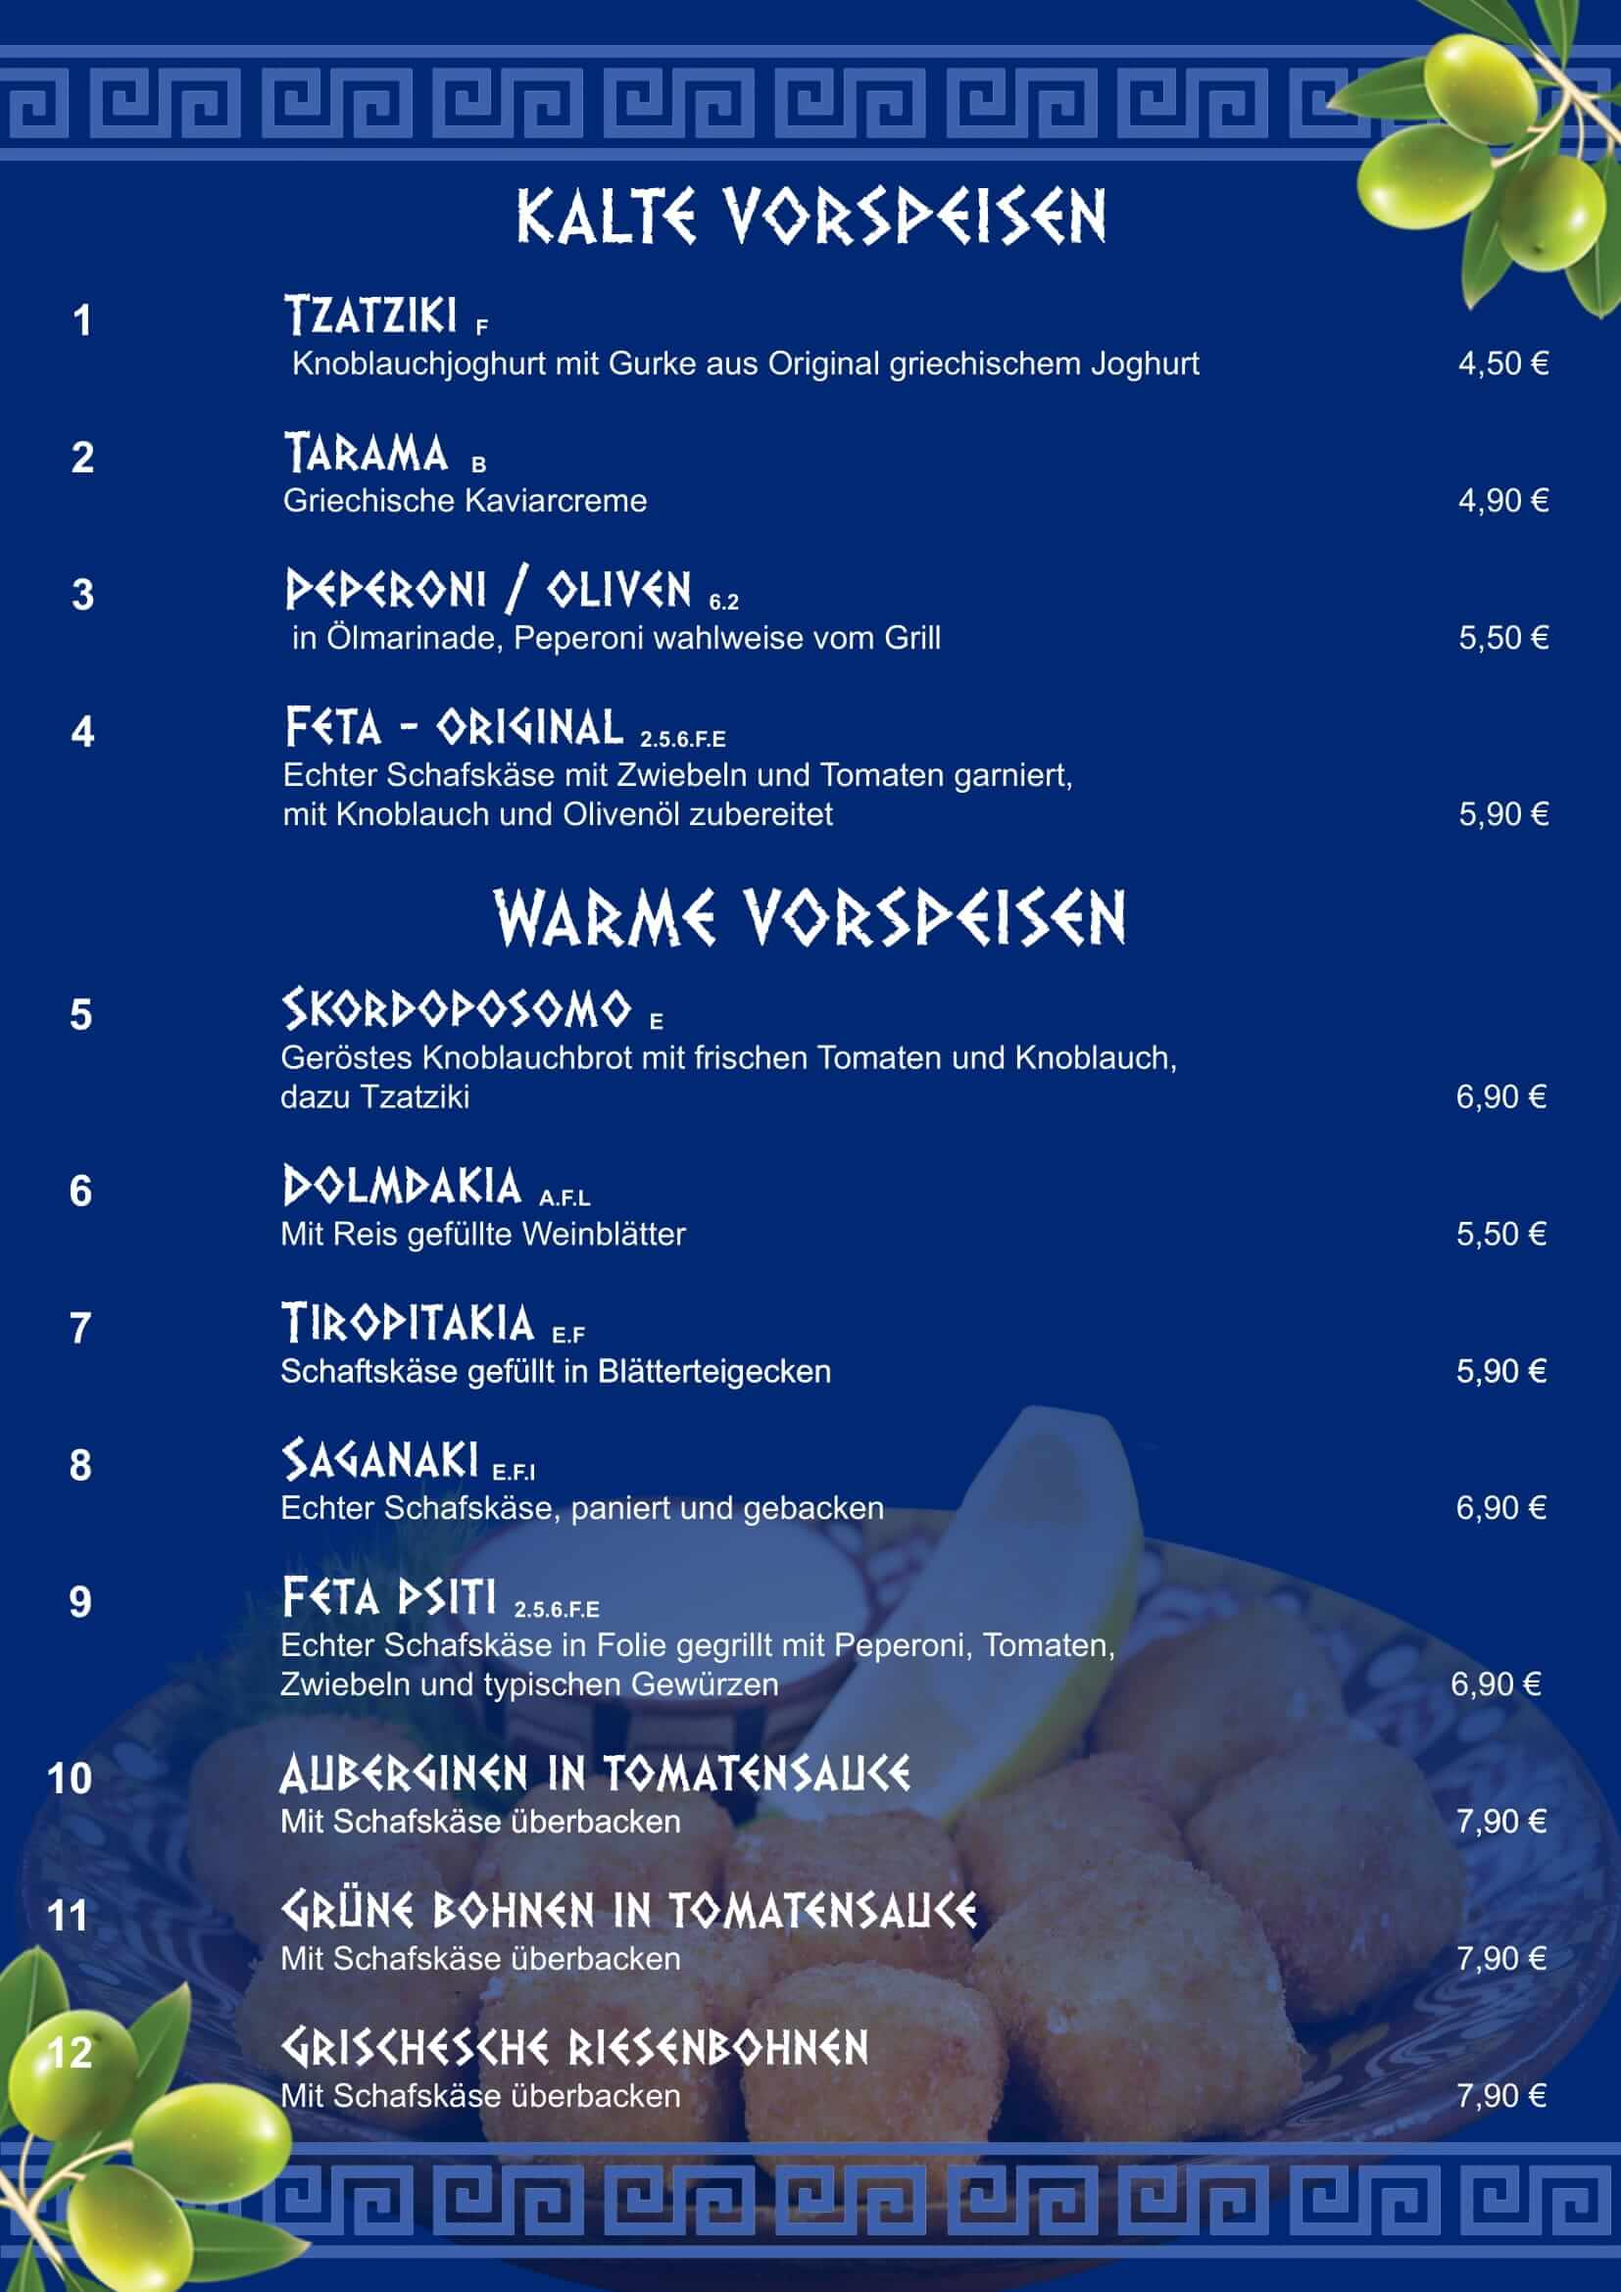
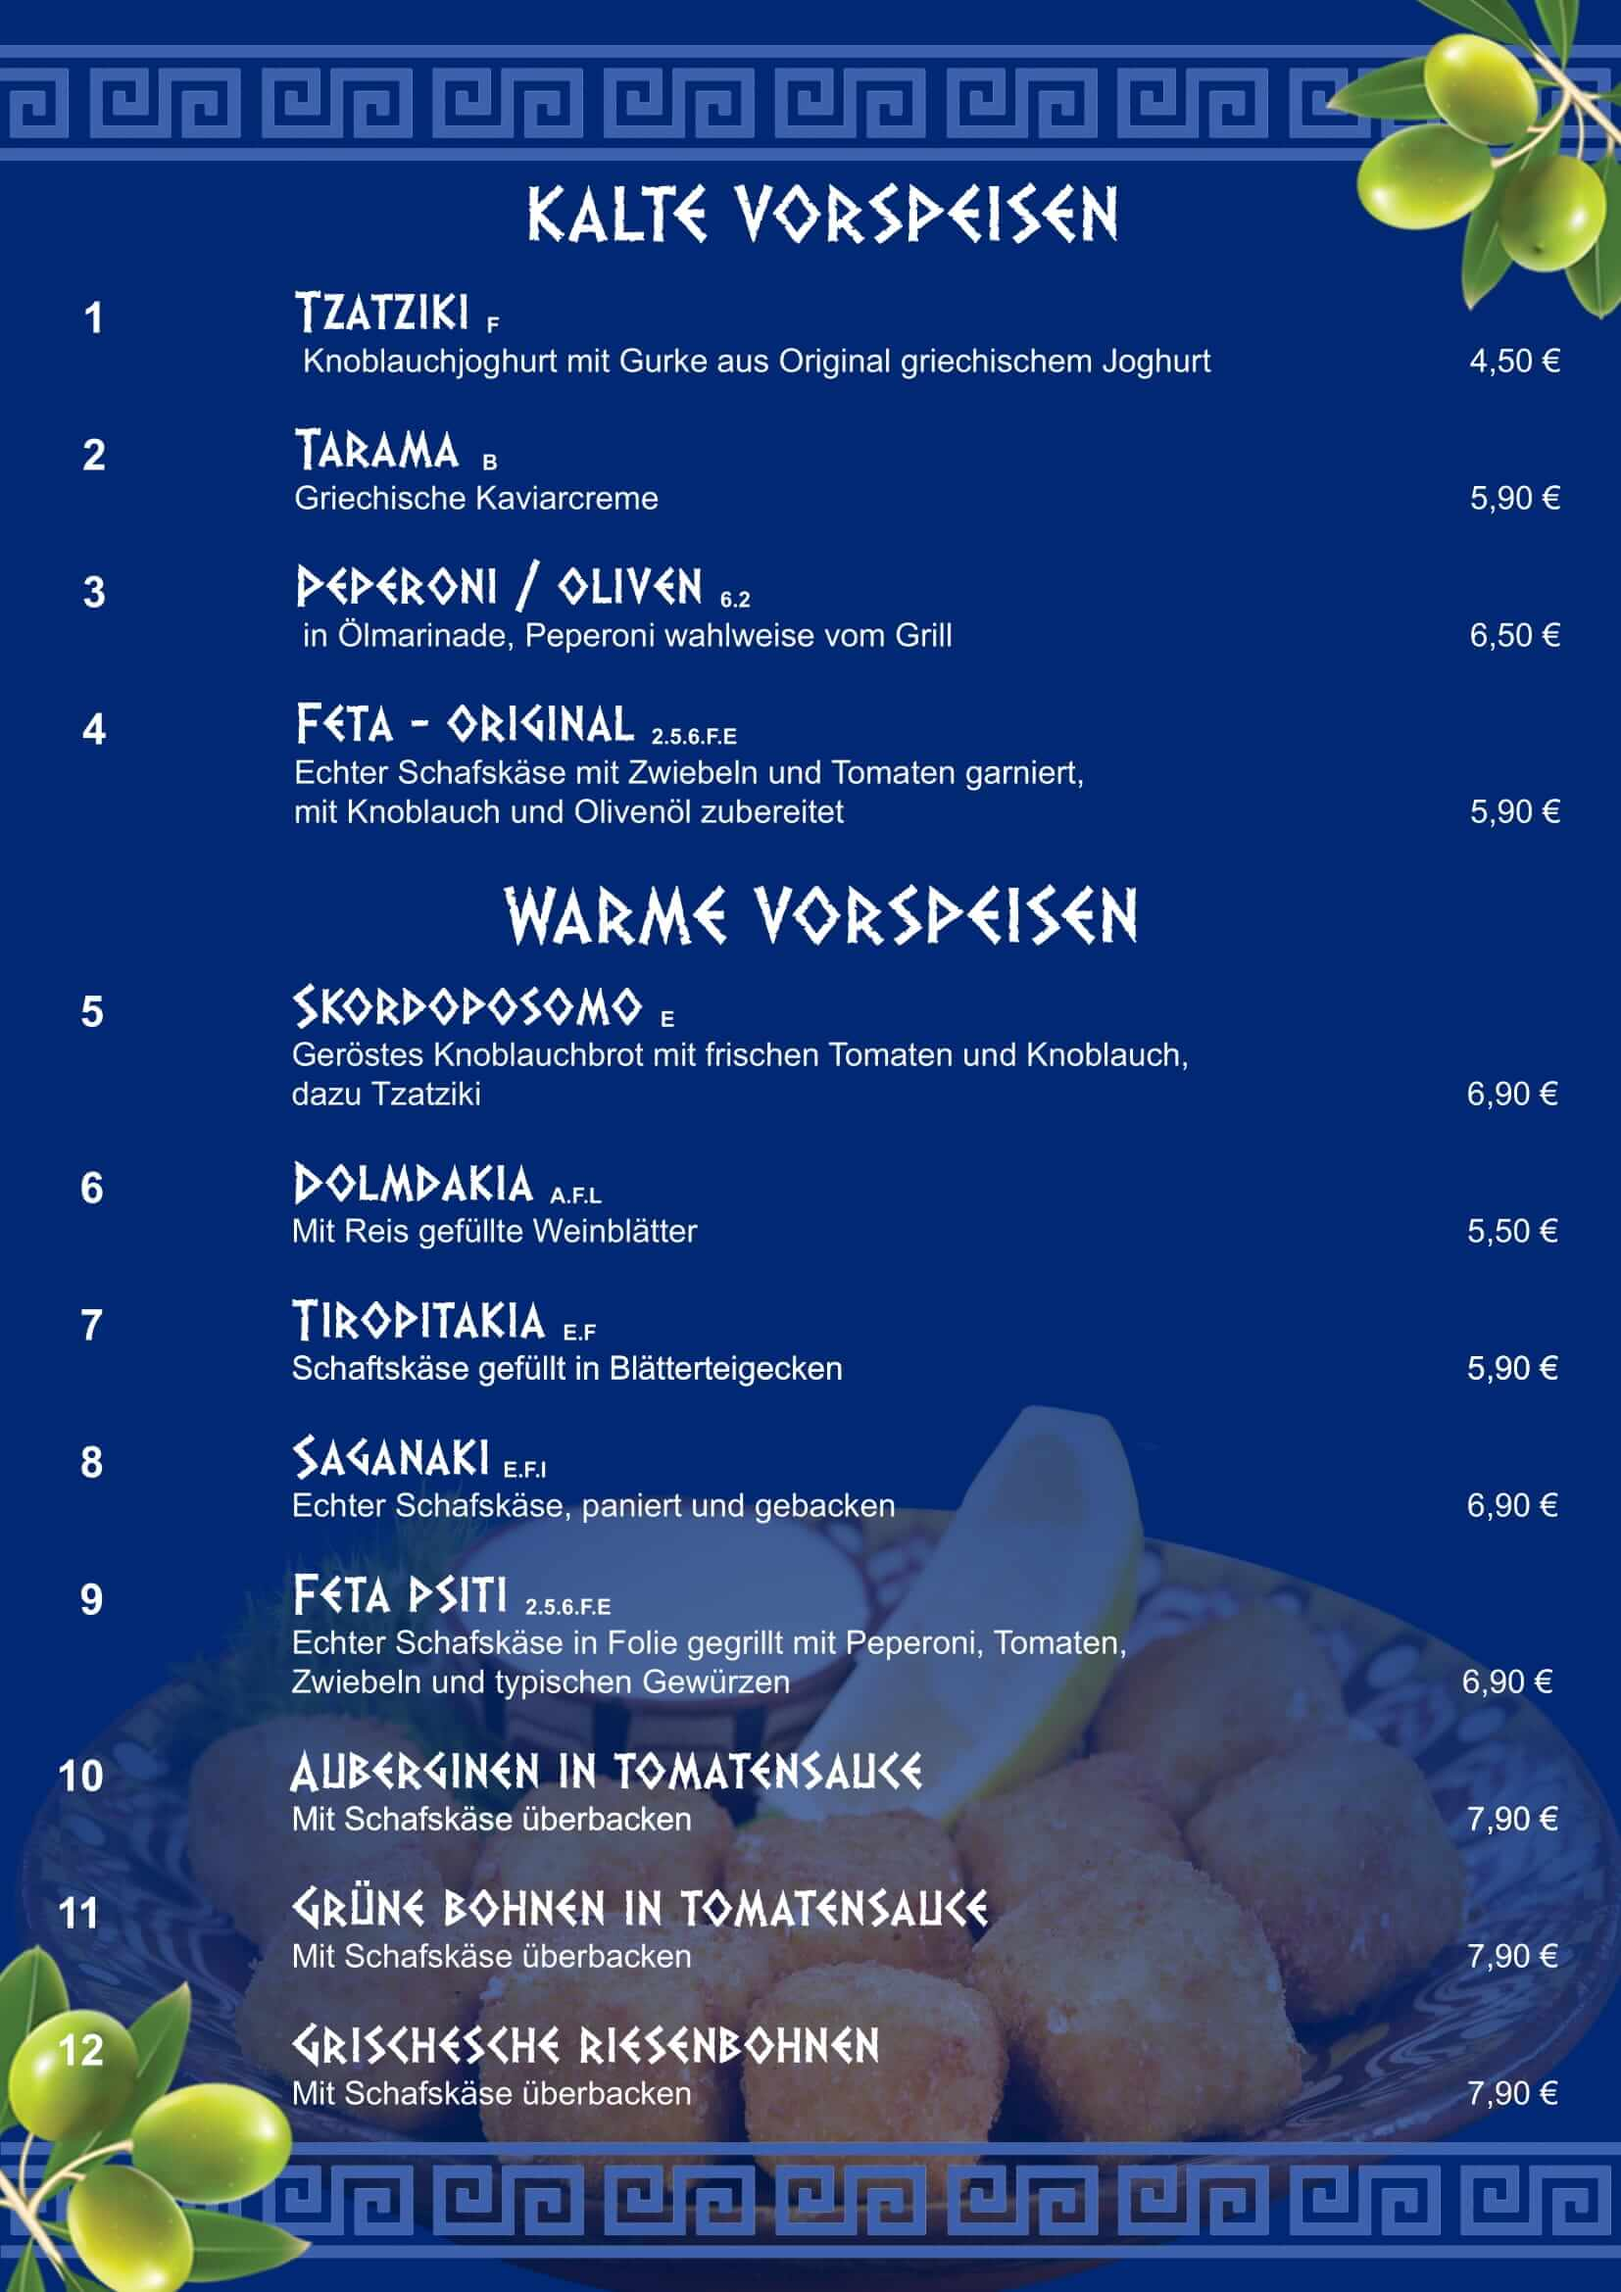
changed price img & opening hourse

diff --git a/index.html b/index.html
@@ -6,7 +6,7 @@
   <meta name="viewport" content="width=device-width, initial-scale=1.0">
   <link rel="stylesheet" href="style.css">
   <title>Rhodos Lütjenburg</title>
-  <link rel="shortcut icon" href="icons/fav.png"/>
+  <link rel="shortcut icon" href="icons/fav.png" />
 </head>
 
 <body>
@@ -136,7 +136,7 @@
 
           <div class="day">
             <span>Samstag</span>
-            <span>12:00-14:30 Uhr, <br>17:00-22:00 Uhr</span>
+            <span>17:00-22:00 Uhr</span>
           </div>
 
           <div class="day">
